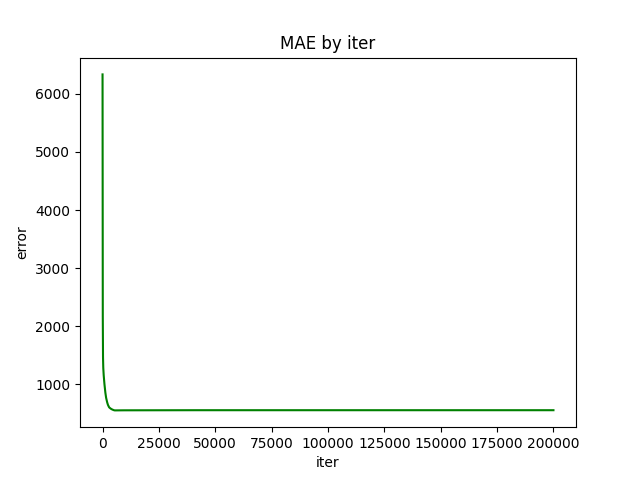
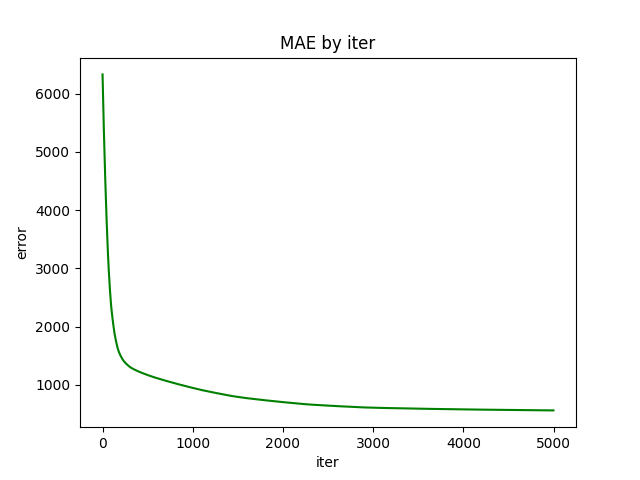
add early_stopping and add arguments to argparse

Changed region(s): [[0.1562, 0.1875, 0.8125, 0.875], [0.2188, 0.9062, 0.9062, 0.9375], [0.2188, 0.7812, 0.3125, 0.8125]]

diff --git a/train_model.py b/train_model.py
@@ -71,7 +71,11 @@ def load_model(path):
     return w
 
 
-def train(path):
+
+def train(path, lr=0.01, epochs=5000,
+          path_weight='weights.txt', show_results=False,
+          early_stopping=100.0):
+    print(path, epochs, early_stopping, path_weight, lr, show_results)
     df = pd.read_csv(path)
     x_data = df.iloc[:, 0].values
     y_data = df.iloc[:, 1].values
@@ -83,48 +87,65 @@ def train(path):
     # y = StandartScaler(y_data)
     # y = MinMaxScaler(y_data)
 
-    lr = 0.01
     w = np.zeros(2)
+
 
     mse = []
     mae = []
-    for _ in range(200000):
+    for _ in range(epochs):
         y_pred = predict(w, x)
         w = gradient_descent(y_pred, y_data, x, lr, w)
+        if len(mse) > 10:
+            print(mse[-1], mean_square_error(y_data, y_pred), early_stopping)
+        if len(mse) > 10 and (mse[-1] - mean_square_error(y_data, y_pred)) < early_stopping:
+            print(mse[-1], mean_square_error(y_data, y_pred), early_stopping)
+            break
         mse.append(mean_square_error(y_data, y_pred))
         mae.append(mean_absolute_error(y_data, y_pred))
-    save_model(w, x_data, y_data, 'weights.txt')
 
-    """MSE"""
-    plt.plot(range(len(mse)), mse, color='red')
-    plt.title('MSE by iter')
-    plt.xlabel('iter')
-    plt.ylabel('error')
-    plt.savefig('mse.png')
-    plt.show()
+    save_model(w, x_data, y_data, path_weight)
 
-
-    """MAE"""
-    plt.plot(range(len(mae)), mae, color='green')
-    plt.title('MAE by iter')
-    plt.xlabel('iter')
-    plt.ylabel('error')
-    plt.savefig('mae.png')
-    plt.show()
+    if show_results:
+        """MSE"""
+        plt.plot(range(len(mse)), mse, color='red')
+        plt.title('MSE by epoch')
+        plt.xlabel('epoch')
+        plt.ylabel('error')
+        # plt.savefig('mse.png')
+        plt.show()
 
 
-    """show result of linear regression"""
-    plt.scatter(x_data, y_data, label='real', marker='*', color='green')
-    plt.plot(x_data, y_pred, label='predict')
-    plt.legend()
-    plt.title('Result of linear regression')
-    plt.xlabel('km')
-    plt.ylabel('price')
-    plt.savefig('result.png')
-    plt.show()
+        """MAE"""
+        plt.plot(range(len(mae)), mae, color='green')
+        plt.title('MAE by epoch')
+        plt.xlabel('epoch')
+        plt.ylabel('error')
+        # plt.savefig('mae.png')
+        plt.show()
+
+
+        """show result of linear regression"""
+        plt.scatter(x_data, y_data, label='real', marker='*', color='green')
+        plt.plot(x_data, y_pred, label='predict')
+        plt.legend()
+        plt.title(f'Result of linear regression\n lr={lr}; epochs={epochs}')
+        plt.xlabel('km')
+        plt.ylabel('price')
+        plt.savefig('result.png')
+        plt.show()
 
 
 if __name__ == '__main__':
     pars = argparse.ArgumentParser()
-    pars.add_argument('dataset', help='data.csv')
-    train(pars.parse_args().dataset)
+    pars.add_argument('--i', help='input file', type=str, default='data.csv')
+    pars.add_argument('--lr', help='learning rate', type=float, default=0.01)
+    pars.add_argument('--e', help='epochs', type=int, default=5000)
+    pars.add_argument('--o', help='output file', type=str, default='weights.txt')
+    pars.add_argument('--p', help='plot results', type=bool, default=False)
+    pars.add_argument('--es', help='early_stopping', type=float, default=100.0)
+    train(path=pars.parse_args().i,
+          lr=pars.parse_args().lr,
+          epochs=pars.parse_args().e,
+          early_stopping=pars.parse_args().es,
+          path_weight=pars.parse_args().o,
+          show_results=pars.parse_args().p)

diff --git a/estimatePrice.py b/estimatePrice.py
@@ -5,6 +5,8 @@ import numpy as np
 from train_model import load_model
 from train_model import StandartScalerReverse, MinMaxScalerReverse
 from train_model import StandartScaler, MinMaxScaler
+
+
 def estimate_price(mileage):
     model_info = load_model('weights.txt')
     price = model_info['w0'] + model_info['w1'] * MinMaxScaler(mileage,
@@ -15,5 +17,5 @@ def estimate_price(mileage):
 
 if __name__ == '__main__':
     pars = argparse.ArgumentParser()
-    pars.add_argument('mileage', type=int or float,  help='mileage - float or int')
+    pars.add_argument('mileage', type=int or float,  help='mileage')
     print(estimate_price(pars.parse_args().mileage))
